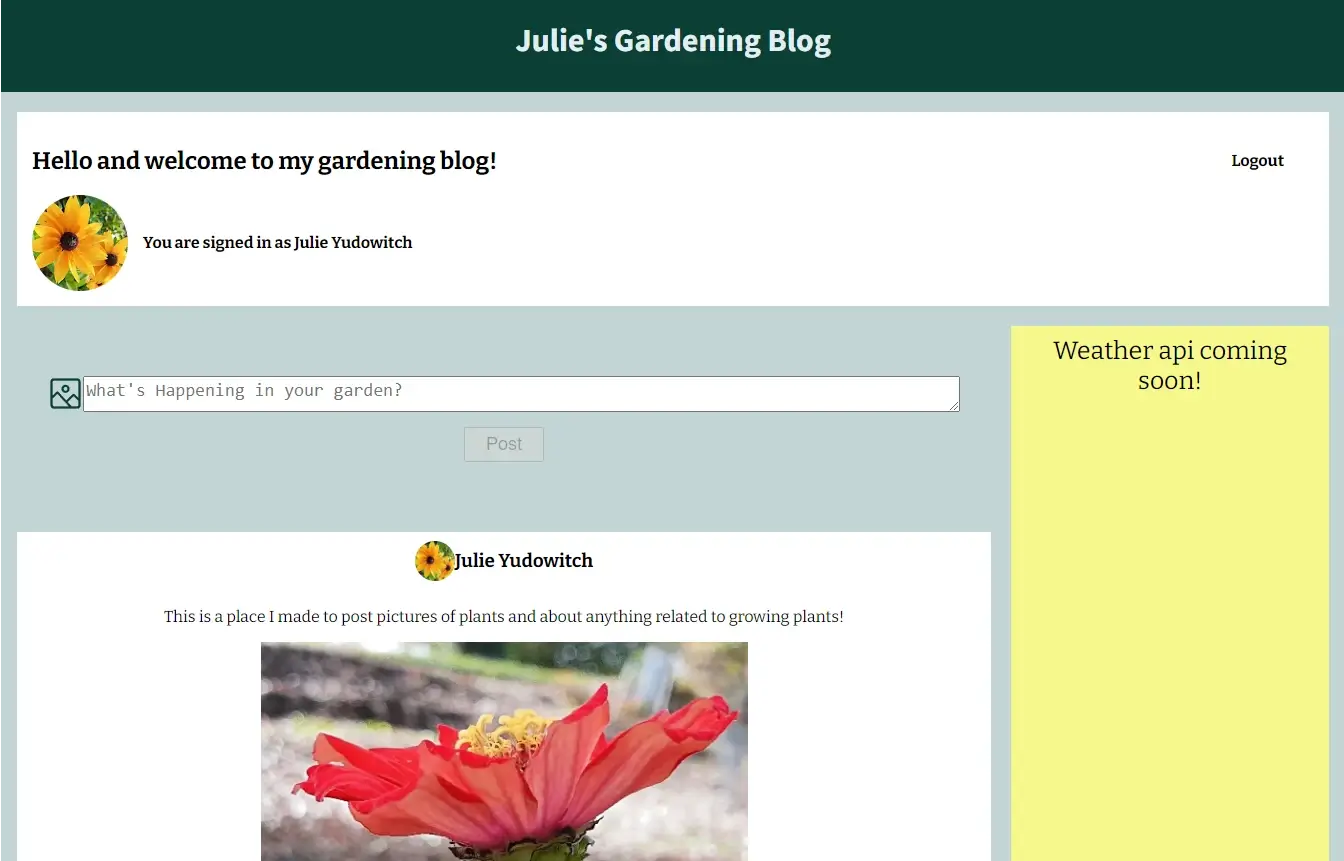
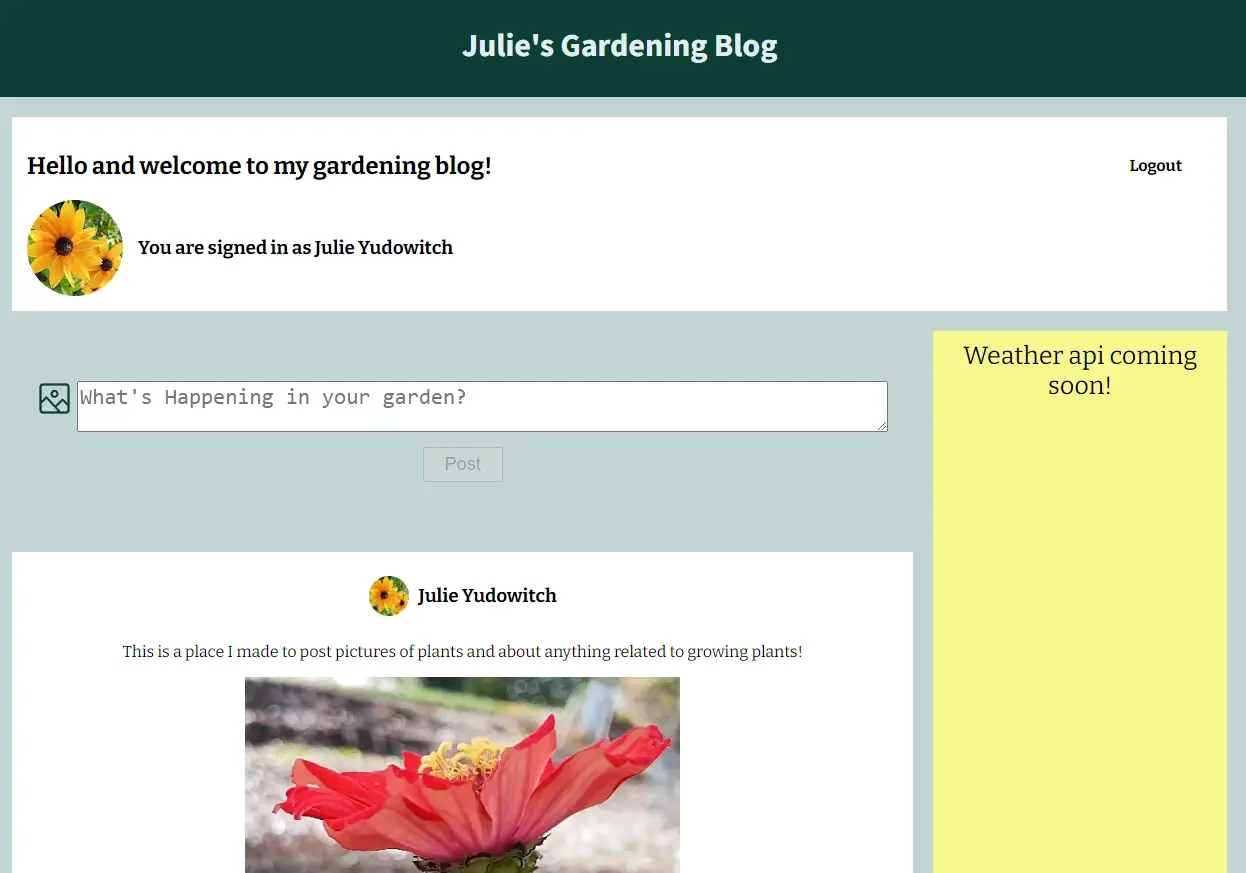
styles

Changed region(s): [[0.0, 0.0302, 1.0, 1.0], [0.4575, 0.9059, 0.488, 0.9361]]

diff --git a/pages/index.js b/pages/index.js
@@ -180,8 +180,8 @@ export default function Home(props) {
               <Image
                 src="/gardenblog.webp"
                 alt=""
-                width="1334"
-                height="861"
+                width="1246"
+                height="873"
                 placeholder="blur"
                 blurDataURL="/gardenblog.webp"
               />
@@ -193,7 +193,9 @@ export default function Home(props) {
             target="blank"
             rel="noopener noreferrer"
           >
-            <p>A blog I built using Next.js, NextAuth, and Firebase</p>
+            <p className={styles.projectDescript}>
+              A blog I built using Next.js, NextAuth, and Firebase
+            </p>
           </a>
         </div>
         <div className={styles.project}>
@@ -219,9 +221,9 @@ export default function Home(props) {
             target="blank"
             rel="noopener noreferrer"
           >
-            <p>
-              An internationalized app using i18next to deliver content in
-              both English and Spanish.
+            <p className={styles.projectDescript}>
+              An internationalized app using i18next to deliver content in both
+              English and Spanish.
             </p>
           </a>
         </div>

diff --git a/styles/Home.module.css b/styles/Home.module.css
@@ -1,13 +1,26 @@
 .homePage {
   position: relative;
   color: #0e1d30;
-  background-color:#ECECEC;
+  background-color:#dfdddd;
 }
 .projects {
   grid-area: pro;
   margin: 20px;
   display: flex;
   gap: 20px;
+}
+.project {
+  background-color: white;
+  padding: 20px;
+  margin-bottom: 20px;
+}
+.projectDescript {
+  padding: 10px;
+  margin-bottom: 0;
+}
+.projectImg {
+padding: 10px;
+background-color: #0e1d30;
 }
 
 .homeTitle {
